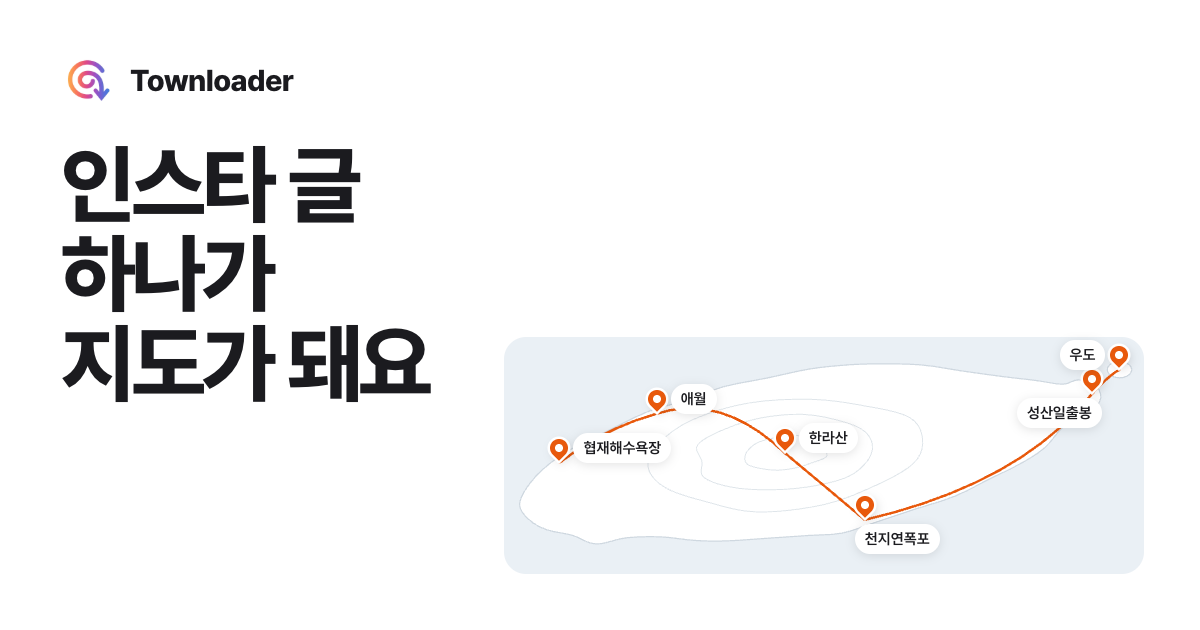
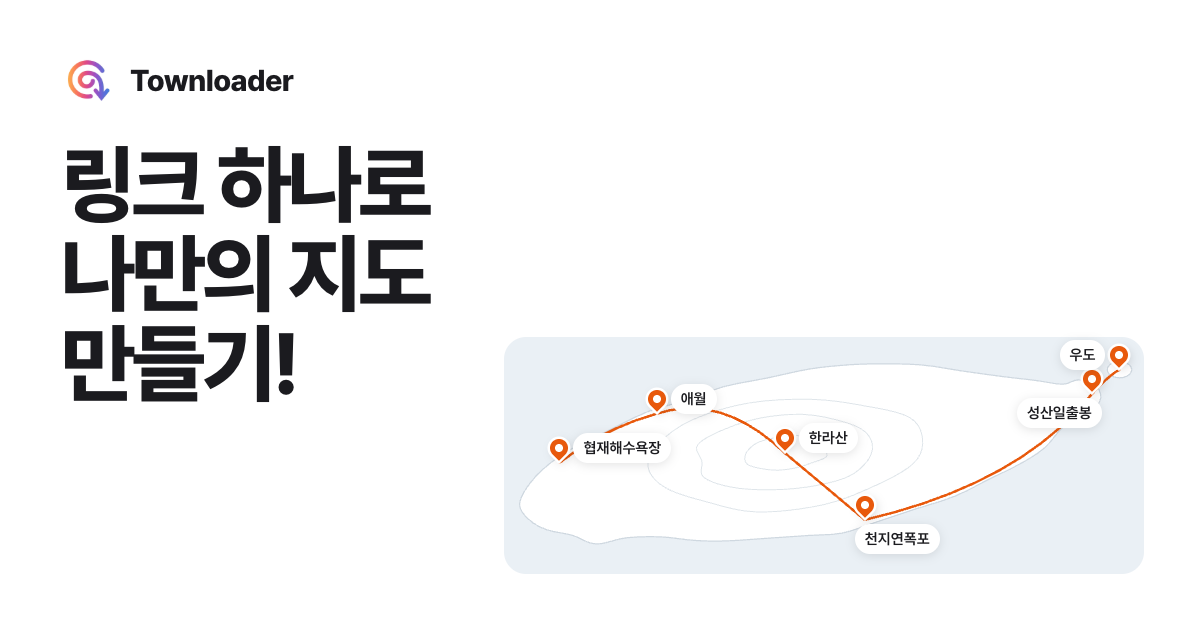
티저사이트 거의 완성

Changed region(s): [[0.0308, 0.2111, 0.37, 0.6635]]

diff --git a/site/src/index.html b/site/src/index.html
@@ -3,21 +3,21 @@
 <head>
 <meta charset="utf-8">
 <meta name="viewport" content="width=device-width, initial-scale=1, viewport-fit=cover">
-<title>Townloader: 인스타 글 하나가 지도가 돼요</title>
-<meta name="description" content="Townloader는 인스타그램 글에서 장소를 찾아 지도에 모아 주는 iPhone 앱이에요. 긴 Threads 글은 한 화면에서 읽고, 사진과 영상은 원본 화질로 보관해요.">
+<title>Townloader: 링크 하나로 나만의 지도 만들기</title>
+<meta name="description" content="Townloader는 인스타그램 글에서 장소를 찾아 지도에 모아 주는 앱이에요. 긴 Threads 글은 한 화면에서 읽고, 사진과 영상은 원본 화질로 보관해요.">
 <link rel="canonical" href="https://townloader.web.app/">
 <meta name="theme-color" content="#ffffff">
 <meta property="og:type" content="website">
 <meta property="og:site_name" content="Townloader">
 <meta property="og:locale" content="ko_KR">
 <meta property="og:url" content="https://townloader.web.app/">
-<meta property="og:title" content="Townloader: 인스타 글 하나가 지도가 돼요">
+<meta property="og:title" content="Townloader: 링크 하나로 나만의 지도 만들기">
 <meta property="og:description" content="링크를 붙여넣으면 캡션과 사진 속 글자에서 장소를 찾아 지도에 모아 줘요.">
 <meta property="og:image" content="https://townloader.web.app/og.png">
 <meta property="og:image:width" content="1200">
 <meta property="og:image:height" content="630">
 <meta name="twitter:card" content="summary_large_image">
-<meta name="twitter:title" content="Townloader: 인스타 글 하나가 지도가 돼요">
+<meta name="twitter:title" content="Townloader: 링크 하나로 나만의 지도 만들기">
 <meta name="twitter:description" content="링크를 붙여넣으면 캡션과 사진 속 글자에서 장소를 찾아 지도에 모아 줘요.">
 <meta name="twitter:image" content="https://townloader.web.app/og.png">
 <link rel="icon" href="/favicon.png" type="image/png">
@@ -37,7 +37,8 @@
   "@context": "https://schema.org",
   "@type": "MobileApplication",
   "name": "Townloader",
-  "operatingSystem": "iOS",
+  "operatingSystem": "Android, iOS",
+  "installUrl": "https://play.google.com/store/apps/details?id=net.tangibleidea.townloader",
   "applicationCategory": "TravelApplication",
   "inLanguage": ["ko", "en"],
   "url": "https://townloader.web.app/",
@@ -66,17 +67,83 @@
   <section class="hero" aria-labelledby="hero-title">
     <div class="hero__copy">
       <h1 id="hero-title" class="display">
-        <span class="line"><span class="line__in" data-intro>인스타 글 하나가</span></span>
-        <span class="line"><span class="line__in" data-intro>지도가 돼요</span></span>
+        <span class="line"><span class="line__in" data-intro>링크 하나로</span></span>
+        <span class="line"><span class="line__in" data-intro>나만의 지도 만들기!</span></span>
       </h1>
-      <p class="hero__lede">링크를 붙여넣으면 캡션과 사진 속 글자에서 장소를 찾아 지도에 모아 줘요. 긴 Threads 글은 한 화면에서 끝까지 읽고, 사진과 영상은 원본 화질로 보관하세요.</p>
-      <div class="hero__actions" data-intro-fade>
-        <button class="btn" type="button" data-sound-play>
-          <span class="btn__label"><span data-label="소리 켜고 영상 보기">소리 켜고 영상 보기</span></span>
-        </button>
-        <a class="textlink" href="#how">글이 지도가 되는 과정</a>
+      <div class="explain" data-explain>
+        <div class="tree">
+          <div class="node node--first" data-flow="0">
+            <span class="icon" aria-hidden="true">
+              <svg viewBox="0 0 48 48" focusable="false"><g class="ic-link" transform="scale(2)"><path class="ic-link-a" d="M3.9 12c0-1.71 1.39-3.1 3.1-3.1h4V7H7c-2.76 0-5 2.24-5 5s2.24 5 5 5h4v-1.9H7c-1.71 0-3.1-1.39-3.1-3.1z"/><path class="ic-link-bar" d="M8 13h8v-2H8v2z"/><path class="ic-link-b" d="M17 7h-4v1.9h4c1.71 0 3.1 1.39 3.1 3.1s-1.39 3.1-3.1 3.1h-4V17h4c2.76 0 5-2.24 5-5s-2.24-5-5-5z"/></g></svg>
+            </span>
+            <span class="node__label">링크 붙여넣기</span>
+          </div>
+          <span class="conn" aria-hidden="true"></span>
+          <div class="node" data-flow="1">
+            <span class="icon" aria-hidden="true">
+              <svg viewBox="0 0 48 48" focusable="false">
+                <rect class="ic-hl" x="11" y="21" width="22" height="7" rx="2"/>
+                <path class="ic-lines" d="M12 15h24M12 24.5h20M12 34h16"/>
+                <path class="ic-scan" d="M8 10h32"/>
+              </svg>
+            </span>
+            <span class="node__label">AI 자동분석</span>
+          </div>
+          <svg class="branch" viewBox="0 0 48 184" preserveAspectRatio="none" aria-hidden="true" focusable="false">
+            <path pathLength="1" d="M0 92C24 92 24 20 48 20"/>
+            <path pathLength="1" d="M0 92C24 92 24 68 48 68"/>
+            <path pathLength="1" d="M0 92C24 92 24 116 48 116"/>
+            <path pathLength="1" d="M0 92C24 92 24 164 48 164"/>
+          </svg>
+          <ul class="outs" aria-label="AI 분석으로 얻는 것">
+            <li class="out">
+              <span class="icon icon--sm" aria-hidden="true">
+                <svg viewBox="0 0 48 48" focusable="false">
+                  <path class="ic-map" d="M7 14l10-4 14 4 10-4v24l-10 4-14-4-10 4z M17 10v24 M31 14v24"/>
+                  <g class="ic-pin"><path d="M24 33s-8.5-7.6-8.5-13.6a8.5 8.5 0 0 1 17 0C32.5 25.4 24 33 24 33z"/><circle cx="24" cy="19.6" r="3"/></g>
+                </svg>
+              </span>
+              <span>지도 생성!</span>
+            </li>
+            <li class="out">
+              <span class="icon icon--sm" aria-hidden="true">
+                <svg viewBox="0 0 48 48" focusable="false">
+                  <path class="ic-tray" d="M10 30v6a3 3 0 0 0 3 3h22a3 3 0 0 0 3-3v-6"/>
+                  <path class="ic-arrow" d="M24 9v20M16 21l8 8 8-8"/>
+                </svg>
+              </span>
+              <span>사진과 영상은 원본 화질로 보관!</span>
+            </li>
+            <li class="out">
+              <span class="icon icon--sm" aria-hidden="true">
+                <svg viewBox="0 0 48 48" focusable="false">
+                  <path d="M11 11h26a4 4 0 0 1 4 4v14a4 4 0 0 1-4 4H23l-9 6v-6h-3a4 4 0 0 1-4-4V15a4 4 0 0 1 4-4z"/>
+                  <path class="ic-sum" d="M15 19h18M15 25h11"/>
+                </svg>
+              </span>
+              <span>글/댓글 요약!</span>
+            </li>
+            <li class="out">
+              <span class="icon icon--sm" aria-hidden="true">
+                <svg viewBox="0 0 48 48" focusable="false">
+                  <path class="ic-star" d="M24 8l4.8 9.8 10.8 1.6-7.8 7.6 1.8 10.8L24 32.7l-9.6 5.1 1.8-10.8-7.8-7.6 10.8-1.6z"/>
+                </svg>
+              </span>
+              <span>카카오맵 리뷰와 평점 연동/요약기능!</span>
+            </li>
+          </ul>
+        </div>
       </div>
-      <p class="hero__status" data-intro-fade>iPhone 앱, App Store 출시 준비 중</p>
+      <div class="hero__actions stores">
+        <span class="store store--soon">
+          <svg class="store__icon" viewBox="0 0 24 24" aria-hidden="true" focusable="false"><path d="M16.37 12.6c-.02-2.2 1.8-3.26 1.88-3.31-1.03-1.5-2.62-1.7-3.18-1.73-1.35-.14-2.64.8-3.33.8-.69 0-1.74-.78-2.87-.76-1.47.02-2.83.86-3.59 2.18-1.53 2.66-.39 6.6 1.1 8.76.73 1.06 1.6 2.24 2.73 2.2 1.1-.04 1.51-.71 2.84-.71 1.32 0 1.7.71 2.86.69 1.18-.02 1.93-1.07 2.65-2.13.84-1.22 1.18-2.41 1.2-2.47-.03-.01-2.3-.88-2.32-3.5zM14.2 6.13c.6-.73 1.01-1.75.9-2.76-.87.04-1.92.58-2.54 1.31-.56.65-1.05 1.69-.92 2.68.97.08 1.96-.49 2.56-1.23z"/></svg>
+          <span class="store__text"><small>출시 준비 중</small><b>App Store</b></span>
+        </span>
+        <a class="store" href="https://play.google.com/store/apps/details?id=net.tangibleidea.townloader" rel="noopener">
+          <svg class="store__icon" viewBox="0 0 24 24" aria-hidden="true" focusable="false"><path d="M4.2 2.6c-.25.26-.4.66-.4 1.18v16.44c0 .52.15.92.4 1.18l.07.06 9.2-9.2v-.22l-9.2-9.2-.07.06z"/><path d="M16.54 15.33l-3.07-3.07v-.22l3.07-3.07.07.04 3.64 2.07c1.04.59 1.04 1.56 0 2.15l-3.64 2.07-.07.03z" opacity=".75"/><path d="M16.61 15.29L13.47 12.15l-9.27 9.27c.34.37.91.41 1.55.05l10.86-6.18" opacity=".9"/><path d="M16.61 9.01L5.75 2.83c-.64-.36-1.21-.32-1.55.05l9.27 9.27 3.14-3.14z" opacity=".6"/></svg>
+          <span class="store__text"><small>다운로드</small><b>Google Play</b></span>
+        </a>
+      </div>
     </div>
 
     <figure class="film" data-intro-film>
@@ -90,14 +157,13 @@
           <button class="chipbtn" type="button" data-film-sound aria-pressed="false">소리 켜기</button>
         </div>
       </div>
-      <figcaption class="film__cap">39초 영상. 여자친구의 "아무거나"에 남자친구가 인스타 글 하나로 데이트 코스 지도를 만들어 보내요.</figcaption>
     </figure>
   </section>
 
   <section class="how" id="how" aria-labelledby="how-title" data-how>
     <div class="how__stage">
       <div class="how__text">
-        <h2 id="how-title" class="h2">캡션을 읽고<br>장소를 꽂아요</h2>
+        <h2 id="how-title" class="h2"><span class="nowrap">글/이미지/영상을</span><br><span class="nowrap">AI가 알아서 분석해요</span></h2>
         <article class="post" aria-label="예시 게시물">
           <header class="post__head">
             <span class="post__avatar" aria-hidden="true">M</span>

diff --git a/site/src/site.css b/site/src/site.css
@@ -14,7 +14,7 @@
   --accent-ink: #c2410c;
   --accent-soft: rgba(232, 89, 12, 0.22);
 
-  --gutter: clamp(16px, 3vw, 40px);
+  --gutter: clamp(20px, 4.2vw, 64px);
   --radius: 22px;
   --ease: cubic-bezier(0.16, 1, 0.3, 1);
   --ease-pin: cubic-bezier(0.34, 1.7, 0.64, 1);
@@ -146,8 +146,64 @@ html.bar-away .bar { translate: 0 -105%; }
 }
 .line { display: block; overflow: clip; padding-bottom: 0.06em; margin-bottom: -0.06em; }
 .line__in { display: inline-block; }
+.hero .display { font-size: clamp(2.2rem, 0.6rem + 5vw, 5.6rem); }
+.hero .line__in { white-space: nowrap; }
+
+/* 히어로 설명: 링크 → AI → 결과 네 갈래 */
+.explain { margin-top: clamp(28px, 3.4vw, 44px); }
+.tree { display: flex; align-items: center; }
+.node { position: relative; flex: none; }
+.node__label {
+  position: absolute; top: calc(100% + 10px); left: 50%; translate: -50% 0;
+  white-space: nowrap; font-weight: 600; font-size: 0.9375rem; line-height: 1.3;
+}
+.node--first .node__label { left: 0; translate: 0 0; }
+.conn { position: relative; flex: none; width: 56px; height: 0; margin: 0 10px; border-top: 2px dotted #c9cfd6; --dot: 1; }
+.conn::before {
+  content: ""; position: absolute; top: -6px; left: calc(var(--dot) * (100% - 10px));
+  width: 10px; height: 10px; border-radius: 50%; background: var(--accent);
+}
+.branch { flex: none; width: 40px; height: 184px; margin-left: 6px; overflow: visible; fill: none; stroke: #c9cfd6; stroke-width: 2; stroke-dasharray: 1 1; stroke-dashoffset: 0; }
+.outs { display: grid; gap: 8px; margin: 0 0 0 6px; padding: 0; list-style: none; }
+.out { display: flex; align-items: center; gap: 10px; height: 40px; font-weight: 600; font-size: 0.9375rem; line-height: 1.3; }
+.icon {
+  display: grid; place-items: center; flex: none; width: 56px; height: 56px; border-radius: 16px;
+  background: var(--sea); transition: background-color 0.4s, box-shadow 0.4s;
+}
+.icon svg { width: 40px; height: 40px; overflow: visible; fill: none; stroke: var(--ink); stroke-width: 2.2; stroke-linecap: round; stroke-linejoin: round; }
+.node.is-on .icon, .out.is-on .icon { background: #fff; box-shadow: 0 0 0 1.5px var(--accent), 0 6px 18px rgba(232, 89, 12, 0.16); }
+.ic-link path { fill: var(--ink); stroke: none; }
+.ic-hl { fill: rgba(232, 89, 12, 0.38); stroke: none; }
+.ic-map { stroke: #9aa3ad; stroke-width: 1.8; }
+.ic-scan { stroke: var(--accent); opacity: 0; }
+.ic-pin path { fill: var(--accent); stroke: #fff; stroke-width: 2; }
+.ic-pin circle { fill: #fff; stroke: none; }
+.ic-arrow, .ic-sum { stroke: var(--accent); }
+.ic-star { fill: var(--accent); stroke: var(--accent); }
+.icon--sm { width: 36px; height: 36px; border-radius: 11px; }
+.icon--sm svg { width: 26px; height: 26px; stroke-width: 2.6; }
 .hero__lede { max-width: 33em; margin-top: clamp(24px, 3vw, 40px); color: var(--muted); font-size: clamp(1.0625rem, 0.95rem + 0.35vw, 1.25rem); line-height: 1.6; }
 .hero__actions { display: flex; flex-wrap: wrap; align-items: center; gap: 14px 28px; margin-top: 32px; }
+.stores { gap: 12px; }
+.store {
+  position: relative; overflow: hidden; isolation: isolate;
+  display: inline-flex; align-items: center; gap: 10px; min-height: 56px; padding: 0 22px 0 18px;
+  border-radius: 14px; background: var(--ink); color: #fff; text-decoration: none;
+  transition: scale 0.2s var(--ease);
+}
+.store::before {
+  content: ""; position: absolute; inset: 0; z-index: -1; background: var(--accent);
+  transform: translateY(101%); transition: transform 0.55s var(--ease);
+}
+.store__icon { width: 24px; height: 24px; fill: currentColor; transition: translate 0.5s var(--ease-pin); }
+.store__text { display: grid; line-height: 1.15; }
+.store__text small { font-size: 0.6875rem; font-weight: 600; opacity: 0.8; }
+.store__text b { font-size: 1.125rem; font-weight: 800; letter-spacing: -0.02em; }
+a.store:hover::before, a.store:focus-visible::before { transform: translateY(0); }
+a.store:hover .store__icon { translate: 0 -2px; }
+a.store:active { scale: 0.97; }
+.store--soon { background: transparent; color: var(--muted); box-shadow: inset 0 0 0 1.5px var(--line); cursor: default; }
+.store--soon::before { display: none; }
 .hero__status { margin-top: 22px; color: var(--muted); font-size: var(--t-small); }
 .hero__status::before { content: ""; display: inline-block; width: 7px; height: 7px; margin-right: 8px; border-radius: 50%; background: var(--accent); translate: 0 -2px; }
 
@@ -162,8 +218,7 @@ html.bar-away .bar { translate: 0 -105%; }
 .film__cap { margin-top: 14px; color: var(--muted); font-size: var(--t-small); line-height: 1.5; }
 
 html.js-motion:not(.intro-done) .line__in { transform: translateY(108%); }
-html.js-motion:not(.intro-done) [data-intro-fade],
-html.js-motion:not(.intro-done) [data-intro-film] { opacity: 0; }
+
 
 /* ---------- how ---------- */
 .h2 { font-weight: 800; font-size: var(--t-h2); line-height: 1.08; letter-spacing: -0.04em; }
@@ -175,7 +230,8 @@ html.js-motion:not(.intro-done) [data-intro-film] { opacity: 0; }
 }
 .how__text { grid-column: 1 / span 5; }
 .how .map { grid-column: 6 / span 7; }
-.how .h2 { margin-bottom: clamp(20px, 3vh, 36px); }
+.how .h2 { margin-bottom: clamp(20px, 3vh, 36px); font-size: clamp(1.625rem, 0.6rem + 2.5vw, 3.4rem); }
+.nowrap { white-space: nowrap; }
 
 .post {
   border: 1px solid var(--line); border-radius: var(--radius); padding: 22px 24px 20px;
@@ -331,6 +387,16 @@ html.js-motion .how .pin:not(.is-found) { opacity: 0; translate: 0 -26px; }
   .hero__copy, .film { grid-column: 1; }
   .film { justify-self: start; max-width: min(78vw, 360px); }
   .film__frame { max-height: none; margin-left: 0; }
+  .tree { flex-wrap: wrap; }
+  .icon { width: 48px; height: 48px; border-radius: 14px; }
+  .icon svg { width: 34px; height: 34px; }
+  .icon--sm { width: 34px; height: 34px; border-radius: 10px; }
+  .icon--sm svg { width: 24px; height: 24px; }
+  .node__label { font-size: 0.8125rem; }
+  .conn { width: 44px; }
+  .branch { display: none; }
+  .outs { flex-basis: 100%; grid-template-columns: 1fr 1fr; gap: 12px 12px; margin: 46px 0 0; }
+  .out { height: auto; align-items: center; font-size: 0.8125rem; }
 
   .how { height: 300svh; }
   .how__stage { grid-template-columns: 1fr; align-content: center; row-gap: 18px; padding-top: calc(var(--bar-h) + 12px); }

diff --git a/site/src/main.js b/site/src/main.js
@@ -49,12 +49,58 @@
     const tl = gsap.timeline({ defaults: { ease }, onComplete: () => root.classList.add('intro-done') });
     // CSS가 숨김용 translateY를 걸어 두므로 y도 0으로 함께 지정한다 (GSAP이 그 값을 y로 읽는다).
     tl.fromTo('.hero .line__in', { y: 0, yPercent: 108 }, { y: 0, yPercent: 0, duration: 1.1, stagger: 0.08 })
-      .fromTo('[data-intro-fade]', { opacity: 0, y: 18 }, { opacity: 1, y: 0, duration: 0.9, stagger: 0.06 }, 0.35)
-      .fromTo('[data-intro-film]', { opacity: 0, y: 40 }, { opacity: 1, y: 0, duration: 1.1 }, 0.2);
+      .fromTo('[data-intro-film]', { y: 40 }, { y: 0, duration: 1.1 }, 0.2);
     // CSS 숨김과 GSAP 시작값이 겹치는 동안 깜빡이지 않도록 클래스는 타임라인 첫 프레임 이후에 뗀다.
     gsap.delayedCall(0.05, () => root.classList.add('intro-done'));
   } else {
     root.classList.add('intro-done');
+  }
+
+  /* ---------- 히어로 설명: 링크 → AI → 네 갈래 결과를 차례로 보여 주는 루프 ---------- */
+  const explain = document.querySelector('[data-explain]');
+  if (explain && motion && ST) {
+    const q = (sel) => explain.querySelector(sel);
+    const nodes = [...explain.querySelectorAll('.node')];
+    const outs = [...explain.querySelectorAll('.out')];
+    const branches = [...explain.querySelectorAll('.branch path')];
+    const conn = q('.conn');
+    const branchVisible = () => getComputedStyle(q('.branch')).display !== 'none';
+    const setOn = (list, i) => list.forEach((el, k) => el.classList.toggle('is-on', k === i));
+    const loop = gsap.timeline({ repeat: -1, repeatDelay: 0.6, defaults: { ease }, paused: true });
+    loop
+      .set(conn, { '--dot': 0 })
+      .set(branches, { strokeDashoffset: 1 })
+      .set(outs, { opacity: 0.35 })
+      .set(q('.ic-hl'), { scaleX: 0, transformOrigin: '0% 50%' })
+      .set(q('.ic-scan'), { y: 0, opacity: 0 })
+      .set(q('.ic-pin'), { y: -12, opacity: 0 })
+      .set(q('.ic-sum'), { scaleX: 0, transformOrigin: '0% 50%' })
+      .set(q('.ic-star'), { scale: 0.4, transformOrigin: '50% 50%' })
+      .call(() => { setOn(nodes, 0); setOn(outs, -1); })
+      .fromTo(q('.ic-link-a'), { x: -3 }, { x: 0, duration: 0.6, ease: 'back.out(2.2)' }, 0)
+      .fromTo(q('.ic-link-b'), { x: 3 }, { x: 0, duration: 0.6, ease: 'back.out(2.2)' }, 0)
+      .fromTo(q('.ic-link-bar'), { scaleX: 0, transformOrigin: '50% 50%' }, { scaleX: 1, duration: 0.35 }, 0.25)
+      .to(conn, { '--dot': 1, duration: 0.7, ease: 'power2.inOut' }, 0.7)
+      .call(() => setOn(nodes, 1), null, 1.35)
+      .to(q('.ic-scan'), { opacity: 1, duration: 0.15 }, 1.35)
+      .to(q('.ic-scan'), { y: 28, duration: 0.8, ease: 'power1.inOut' }, 1.35)
+      .to(q('.ic-scan'), { opacity: 0, duration: 0.2 }, 2.0)
+      .to(q('.ic-hl'), { scaleX: 1, duration: 0.45 }, 1.75);
+    // 갈래가 하나씩 뻗고, 닿은 결과가 켜진다 (폰에서는 갈래 선 없이 결과만 차례로).
+    const icons = [
+      () => gsap.to(q('.ic-pin'), { y: 0, opacity: 1, duration: 0.6, ease: 'back.out(2.4)' }),
+      () => gsap.fromTo(q('.ic-arrow'), { y: -6 }, { y: 0, duration: 0.6, ease: 'back.out(2)' }),
+      () => gsap.to(q('.ic-sum'), { scaleX: 1, duration: 0.5, ease }),
+      () => gsap.to(q('.ic-star'), { scale: 1, duration: 0.6, ease: 'back.out(2.6)' }),
+    ];
+    outs.forEach((out, i) => {
+      const at = 2.25 + i * 0.45;
+      loop.to(branches[i], { strokeDashoffset: 0, duration: 0.45, ease: 'power2.out' }, at)
+        .to(out, { opacity: 1, duration: 0.3 }, at + (branchVisible() ? 0.3 : 0))
+        .call(() => { setOn(outs, i); icons[i](); }, null, at + 0.3);
+    });
+    loop.call(() => { setOn(nodes, -1); setOn(outs, -1); }, null, 5.6).to({}, { duration: 0.01 }, 5.8);
+    ST.create({ trigger: explain, start: 'top bottom', end: 'bottom top', onToggle: (self) => (self.isActive ? loop.play() : loop.pause()) });
   }
 
   /* ---------- how: 진행도 하나로 캡션, 칩, 핀, 코스, 개수를 함께 움직인다 ---------- */
@@ -171,7 +217,7 @@
     };
     toggle.addEventListener('click', () => { video.paused ? video.play() : video.pause(); });
     sound.addEventListener('click', () => { video.muted = !video.muted; if (!video.muted && video.paused) video.play(); sync(); });
-    big.addEventListener('click', () => {
+    if (big) big.addEventListener('click', () => {
       video.muted = false; video.currentTime = 0; video.play(); sync();
       video.closest('.film').scrollIntoView({ block: 'nearest', behavior: reduce ? 'auto' : 'smooth' });
     });

diff --git a/site/DESIGN.md b/site/DESIGN.md
@@ -44,7 +44,7 @@ Screenshot:  캡션 6곳이 칠해지고 제주 지도에 핀 6개와 점선 코
   - 로고 그라데이션은 로고에만 쓰고 다른 곳에는 번지지 않는다
 - Type: Pretendard 하나 (Regular 400, SemiBold 600, ExtraBold 800). 디스플레이는 ExtraBold, 자간 -0.045em, 행간 1.02. 본문 17px/1.6. 숫자는 tabular
   - 빌드 때 페이지에 쓰인 글자만 남겨 서브셋한다 (`scripts/subset_fonts.py`)
-- Grid: 12열, 여백 = gutter `clamp(16px, 3vw, 40px)`. 세로 기준선 1열, 7열 두 개에 모든 블록을 건다
+- Grid: 12열, 여백 = gutter `clamp(20px, 4.2vw, 64px)`. 세로 기준선 1열, 7열 두 개에 모든 블록을 건다
 - Shape: 미디어와 카드 반경 `22px` 하나, 버튼은 pill
 - Motion: ease `expo.out` 계열 하나(`cubic-bezier(.16,1,.3,1)`), 핀만 `back.out(1.6)`. 큰 것 0.9s, 작은 것 0.35s, 스태거 40ms
 - 섹션 구성 (패밀리 중복 없음)
